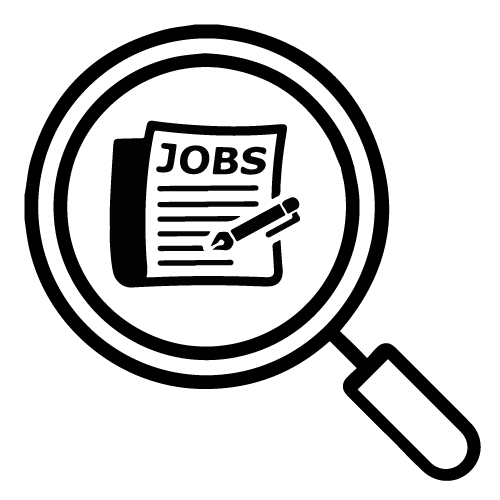
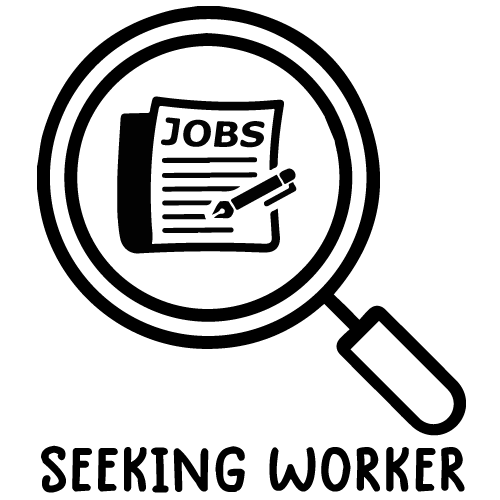
dsfdsf

Changed region(s): [[0.03, 0.0, 0.96, 0.99], [0.06, 0.87, 0.51, 0.99]]

diff --git a/index.html b/index.html
@@ -37,7 +37,7 @@
                     <div class="header_bottom_border">
                         <div class="row align-items-center justify-content-around">
                             <div class="col-xl-3 col-lg-3">
-                                <div class="logo">
+                                <div class="logo text-lg-center ">
                                     <a href="index.html">
                                         <img src="images/logo.png" alt="">
                                     </a>
@@ -75,21 +75,33 @@
     </header>
     <!-- header-end -->
 
+    <section class="intro">
+        <div class="container ">
+            <div class="row">
+                <div class="col-lg-12 ">
+                    <p class="high-school fs-3" >
+                       "THE STABLE" IS SIMPLY A NETWORK THAT MATCHES STUDENTS LOOKING FOR WORK, WITH BUSINESSES AND INDIVIDUALS LOOKING FOR HELP.  BOTH STUDENTS AND WORK REQUESTS ARE VETTED AND KEPT ANONYMOUS BY US, AND THEN PRESENTED ONCE THE STUDENT PERMITS US TO SHARE THEIR INFO WITH A PROSPECTIVE WORK OPPORTUNITY.  PLEASE CLICK ON ONE OF THE MAGNIFYING GLASSES BELOW TO BEGIN YOUR SEARCH!
+                    </p>
+                </div>
+            </div>
+        </div>
+    </section>
+
       <!-- job_searcing_wrap  -->
-    <div class="job_searcing_wrap py-5" style="margin-top: 5.3rem;">
+    <div class="job_searcing_wrap py-5 mt-4" style="margin-top: 5.3rem;">
         <div class="container">
             <div class="row">
                 <div class="col-lg-6  col-md-6 text-center text-lg-right px-4 ">
                    <img src="./images/mag-paper.png" class="img-fluid w-75">
-                   <div class="title fs-1">
+                   <!-- <div class="title fs-1">
                        SEEKING WORKER
-                   </div>
+                   </div> -->
                 </div>
                 <div class="col-lg-6  col-md-6 text-center text-lg-left  px-4 ">
                       <img src="./images/mag-person.png" class="img-fluid w-75">
-                      <div class="title fs-1">
+                      <!-- <div class="title fs-1">
                       SEEKING WORK
-                   </div>
+                   </div> -->
                 </div>
             </div>
         </div>
@@ -104,7 +116,7 @@
             <div class="row">
                 <div class="col-lg-12 text-center">
                     <div class="section_title mb-40">
-                        <h3 style="-webkit-text-stroke: 1px black;">POSITIONS SOUGHT</h3>
+                        <h3 style="-webkit-text-stroke: 1px black;">TYPES OF WORK</h3>
                     </div>
                 </div>
             </div>
@@ -242,8 +254,8 @@
             <div class="row">
                 <br>
                 <div class="col-lg-12">
-                    <div class="section_title mb-40">
-                        <h3>Get in Touch</h3>
+                    <div class="section_title mb-40 ">
+                        <h3 class="high-school">CONTACT</h3>
                     </div>
                 </div>
             </div>
@@ -290,27 +302,12 @@
                     </form>
                 </div>
                 <div class="col-lg-4">
-                    <div class="media contact-info">
-                        <span class="contact-info__icon"><i class="ti-home"></i></span>
-                        <div class="media-body">
-                            <h3>Buttonwood, California.</h3>
-                            <p>Rosemead, CA 91770</p>
-                        </div>
-                    </div>
-                    <div class="media contact-info">
-                        <span class="contact-info__icon"><i class="ti-tablet"></i></span>
-                        <div class="media-body">
-                            <h3>00 (440) 9865 562</h3>
-                            <p>Mon to Fri 9am to 6pm</p>
-                        </div>
-                    </div>
-                    <div class="media contact-info">
-                        <span class="contact-info__icon"><i class="ti-email"></i></span>
-                        <div class="media-body">
-                            <h3>[email redacted]</h3>
-                            <p>Send us your query anytime!</p>
-                        </div>
-                    </div>
+                     <div class="addrs_infos p-4 rounded">
+                        <img src="./images/logo-white.png" class="img-fluid" alt="">
+                        <p class="my-2">PO Box 9301</p>
+                        <p class="my-2">Niskayuna, NY 12309</p>
+                        <p class="my-2">[email redacted]</p>
+                     </div>
                 </div>
             </div>
         </div>

diff --git a/css/style.css b/css/style.css
@@ -13,6 +13,11 @@
 }
 
 
+.high-school {
+  font-family: 'High-School-Memories';
+}
+
+
 html {
   scroll-behavior: smooth;
 }
@@ -2368,10 +2373,10 @@ h3 {
   padding: 100px 0;
 }
 
- 
+
 .popular_catagory_area .section_title h3 {
   color: #fff;
-     font-family: 'High-School-Memories';
+  font-family: 'High-School-Memories';
 }
 
 .popular_catagory_area .single_catagory {
@@ -2387,6 +2392,21 @@ h3 {
   width: 80%;
 }
 
+.intro {
+  padding-top: 145px;
+   
+}
+.intro p{
+ color: #000;
+   
+}
+
+@media(max-width:992px) {
+  .intro {
+    padding-top: 115px;
+  }
+}
+
 .popular_catagory_area .single_catagory a h4 {
   font-size: 20px;
   font-weight: 400;
@@ -2396,6 +2416,18 @@ h3 {
   margin-top: 5px;
   font-family: 'High-School-Memories';
 }
+
+.addrs_infos {
+  background: red;
+  height: 100%;
+  border: 1px solid black;
+}
+
+.addrs_infos p {
+  color: #fff;
+
+}
+
 
 .popular_catagory_area .single_catagory p {
   font-size: 16px;
@@ -2419,7 +2451,7 @@ h3 {
   text-decoration: underline;
 }
 
- 
+
 
 .job_searcing_wrap {
   position: relative;
@@ -2440,9 +2472,9 @@ h3 {
   }
 }
 
-.job_searcing_wrap .title{
+.job_searcing_wrap .title {
   font-family: High-School-Memories;
-      font-size: 3rem;
+  font-size: 3rem;
 }
 
 .job_searcing_wrap.overlay::before {